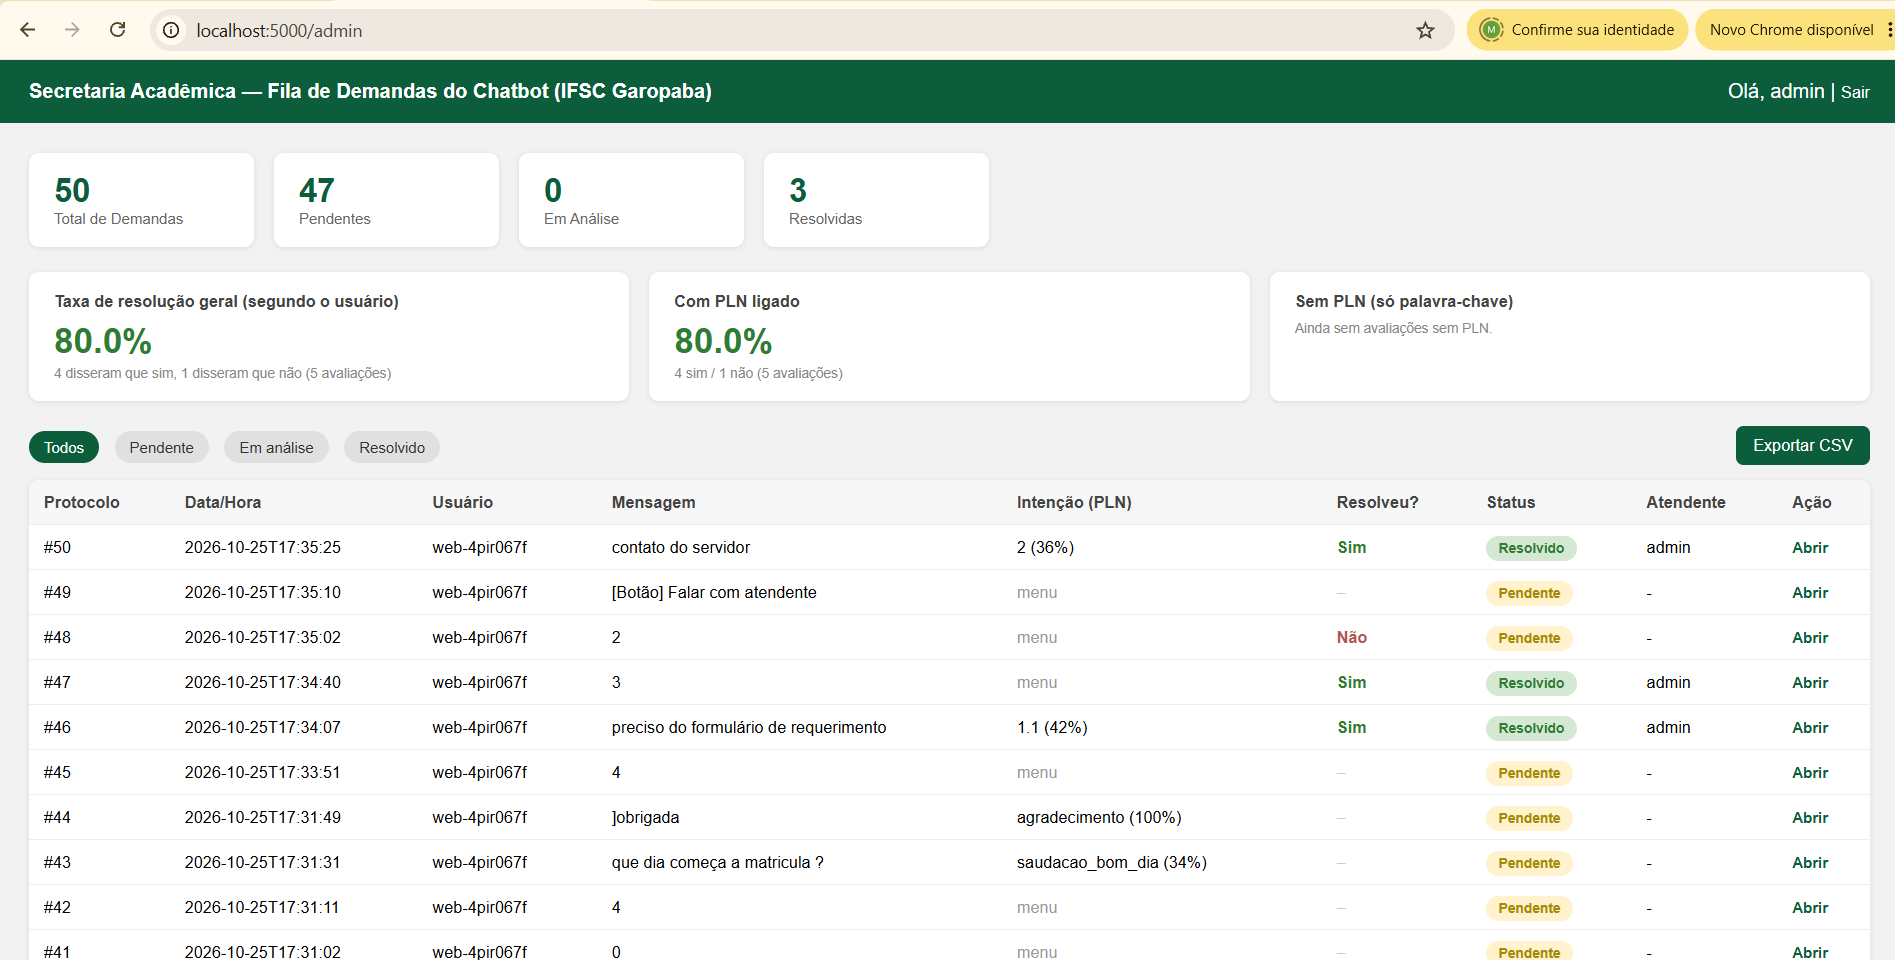
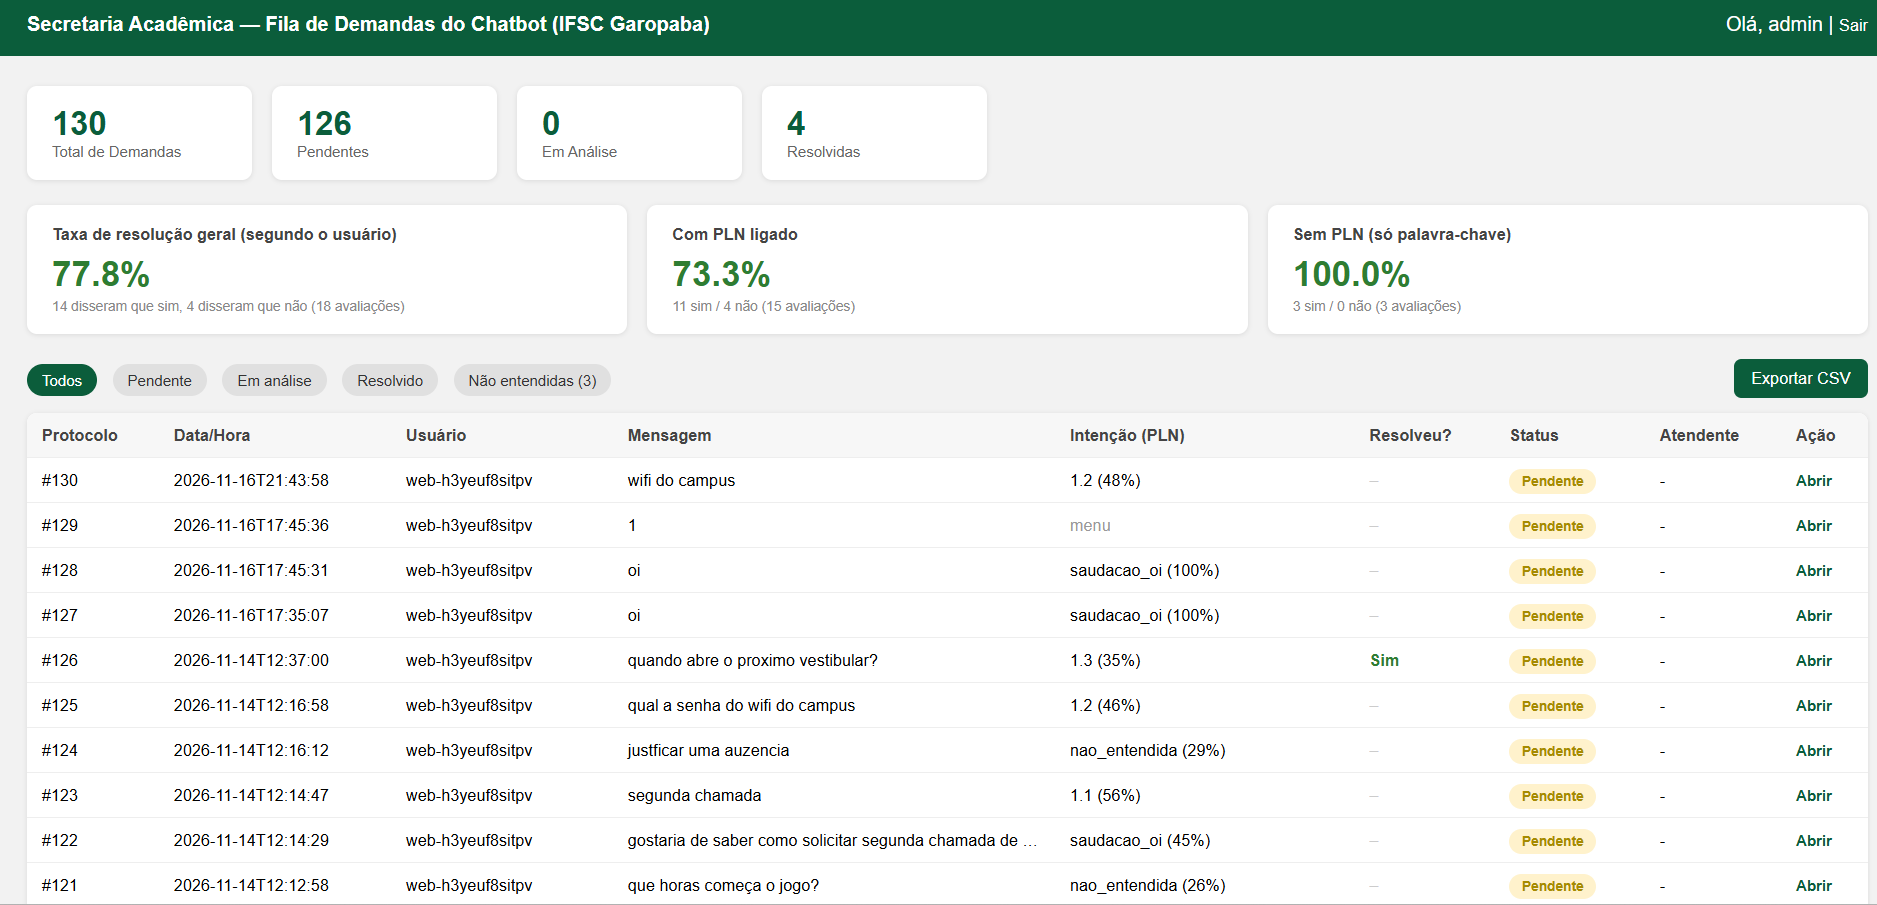
Updates Marilia, V3

diff --git a/artigo_final.tex b/artigo_final.tex
@@ -316,11 +316,33 @@ no sistema:
   para dúvidas individuais.
 \end{itemize}
 
-Com base nessas informações, o desenvolvimento de um chatbot para a
-Secretaria Acadêmica do IFSC Garopaba surge como uma alternativa para
-otimizar o atendimento, reduzir o tempo de resposta, facilitar o acesso
-às informações institucionais e, principalmente, produzir dados de
-acompanhamento que hoje não existem no canal de WhatsApp.
+Com base nessas demandas e nas necessidades de gestão identificadas pelo
+servidor, definiram-se os seguintes \textbf{Requisitos Funcionais (RF)} e
+\textbf{Requisitos Não Funcionais (RNF)} para o protótipo:
+
+\begin{itemize}
+  \item \textbf{RF1:} Conduzir o atendimento por meio de menus
+  hierárquicos numerados com opção universal de retorno ao início;
+  \item \textbf{RF2:} Interpretar perguntas digitadas em texto livre por
+  classificação de intenções, utilizando busca por palavras-chave como
+  contingência;
+  \item \textbf{RF3:} Encaminhar o usuário aos canais de atendimento
+  humano da Secretaria quando a dúvida fugir às respostas automatizadas;
+  \item \textbf{RF4:} Registrar cada interação no banco de dados com
+  protocolo, data e hora, mensagem, intenção reconhecida e avaliação de
+  satisfação;
+  \item \textbf{RF5:} Disponibilizar um painel administrativo autenticado
+  para consulta de métricas, triagem de status e exportação de dados;
+  \item \textbf{RNF1 (Privacidade):} Não exigir autenticação nem coletar
+  dados pessoais identificáveis (nome, CPF ou matrícula) dos usuários do
+  chat, exibindo aviso de registro na tela inicial;
+  \item \textbf{RNF2 (Desempenho e Leveza):} Executar a classificação
+  textual localmente em milissegundos, sem depender de GPUs ou APIs
+  externas pagas;
+  \item \textbf{RNF3 (Portabilidade):} Operar via navegador web de forma
+  responsiva, permitindo acesso tanto em computadores quanto em
+  dispositivos móveis.
+\end{itemize}
 
 \section{Metodologia}\label{sec:metodologia}
 
@@ -360,11 +382,10 @@ pesquisa aplicada, organizada em seis etapas sequenciais:
 
   \item \textbf{6. Validação exploratória e com o servidor:}
   disponibilização do protótipo hospedado online para testes piloto com
-  voluntários e apresentação funcional ao servidor da Secretaria
-  Acadêmica para coleta de parecer qualitativo e ajustes de
-  usabilidade (Seção~\ref{sec:resultados}).
-\end{itemize}
-
+  a autora e voluntários, seguida de apresentação funcional ao servidor
+  da Secretaria Acadêmica para coleta de parecer qualitativo e ajustes
+  de usabilidade (Seção~\ref{sec:resultados}).
+  
 Complementarmente à revisão bibliográfica, realizou-se uma observação
 exploratória informal de dois chatbots institucionais em operação -- o
 da Pontifícia Universidade Católica (PUC) e o da clínica Ortoimagem de
@@ -654,11 +675,18 @@ O acesso ao painel da Secretaria é restrito exclusivamente a servidores
 autenticados. As páginas administrativas são protegidas por verificação
 de sessão: quem tenta acessá-las sem estar autenticado é redirecionado à
 tela de login. As senhas não são armazenadas em texto puro, mas sob a
-forma de \textit{hash} gerado pela biblioteca Werkzeug, e a sessão do
-atendente é assinada com uma chave secreta do Flask e encerrada ao sair.
-Por se tratar de um protótipo, o usuário inicial criado automaticamente
-na primeira execução e a chave de sessão são valores padrão que devem ser
-obrigatoriamente substituídos antes de uma implantação em produção.
+forma de \textit{hash} gerado pela biblioteca Werkzeug. Para evitar
+credenciais fracas em produção, o sistema não cria mais usuários com
+senha padrão: o cadastro de administradores é realizado explicitamente
+pelo utilitário de linha de comando \texttt{criar\_admin.py}, que exige
+senhas com no mínimo 12 caracteres e bloqueia explicitamente senhas
+inseguras conhecidas (como \texttt{admin123}). Da mesma forma, a sessão
+do atendente é assinada com uma chave secreta carregada da variável de
+ambiente \texttt{SECRET\_KEY} ou gerada de forma aleatória na primeira
+execução (\texttt{.secret\_key}), sendo encerrada no \textit{logout}. Na
+instância hospedada no PythonAnywhere, o acesso administrativo foi
+configurado por meio do script \texttt{criar\_admin.py} e o modo de
+depuração (\texttt{FLASK\_DEBUG}) permanece desativado.
 
 Quanto à privacidade dos usuários, em alinhamento ao princípio da
 minimização da Lei Geral de Proteção de Dados Pessoais -- LGPD
@@ -944,7 +972,7 @@ Para orientar o aprimoramento do classificador, analisaram-se quatro falhas repr
 
   \item \textbf{Sensibilidade a erros ortográficos:} na entrada ``preciso justficar uma auzencia'' (esperado: \texttt{justificativa\_ausencia}), os erros de digitação geraram tokens ausentes no vocabulário indexado pelo TF-IDF, resultando em similaridade máxima de 0,2558 (abaixo de 0,30) e falha também na busca por palavras-chave. A inclusão de \textit{n}-gramas de caracteres (3 a 5 letras) no \texttt{classifier.py} permitiria capturar semelhanças parciais mesmo diante de trocas ou omissões de letras.
 
-  \item \textbf{Falso positivo fora de escopo por termo institucional compartilhado:} a pergunta ``qual a senha do wifi do câmpus?'' (esperado: fora de escopo) foi classificada como \texttt{1.2} (similaridade 0,4648), pois a palavra ``câmpus'' aparece com frequência nos exemplos de cursos ofertados. Definir uma lista de \textit{stopwords} institucionais (como ``câmpus'', ``ifsc'' e ``garopaba'') evitaria que termos genéricos acionem serviços específicos.
+  \item \textbf{Falso positivo fora de escopo por termo institucional compartilhado:} a pergunta ``qual a senha do wifi do campus?'' (esperado: fora de escopo) foi classificada como \texttt{1.2} (similaridade 0,4648), pois a palavra ``câmpus'' aparece com frequência nos exemplos de cursos ofertados. Definir uma lista de \textit{stopwords} institucionais (como ``câmpus'', ``ifsc'' e ``garopaba'') evitaria que termos genéricos acionem serviços específicos.
 \end{itemize}
 
 \subsection{Registro no Painel e Validação com o Servidor da Secretaria}
@@ -953,7 +981,18 @@ O painel de controle já é capaz de registrar cada atendimento realizado
 pelo chatbot, incluindo o protocolo, a mensagem recebida, a intenção reconhecida pelo módulo de PLN e se o usuário informou que a dúvida foi sanada ou não -- um retrato exatamente do tipo de dado que, segundo
 relatado na entrevista (Seção~\ref{sec:entrevista}), inexiste no atendimento atual via
 WhatsApp. % CONFERIR: numeros abaixo vieram do banco do prototipo hospedado; recontar no painel antes da entrega
-No protótipo hospedado, o banco de dados registrou 74 demandas, associadas a 5 identificadores distintos de navegador, das quais 70 permaneciam pendentes de triagem e 4 haviam sido marcadas como resolvidas pelo atendente. Nas respostas à pergunta de satisfação, o modo com PLN recebeu 6 respostas \textit{sim} e 1 \textit{não}, e o modo por palavras-chave, 3 respostas \textit{sim} e nenhuma \textit{não}. O volume é pequeno demais para comparar os modos, mas demonstra que o fluxo de registro, a classificação de status (pendente, em análise, resolvido) e a listagem das demandas funcionam de ponta a ponta.
+No protótipo hospedado, o banco de dados registrou 130 demandas
+(incluindo testes realizados pela autora e por voluntários durante a
+validação), das quais 126 permaneciam pendentes de triagem e 4 haviam sido marcadas
+como resolvidas pelo atendente. Nas respostas à pergunta de satisfação,
+o modo com PLN recebeu 11 respostas \textit{sim} e 4 \textit{não}
+(73,3\% de resolução nas 15 interações avaliadas), e o modo por
+palavras-chave recebeu 3 respostas \textit{sim} e nenhuma \textit{não}
+(100,0\% nas 3 avaliações), totalizando 77,8\% de resolução geral nas 18
+avaliações registradas. O volume de avaliações ainda é pequeno para
+comparar estatisticamente os dois modos em produção, mas comprova que o
+fluxo de registro, a classificação de status e a contabilização das
+avaliações funcionam de ponta a ponta.
 
 Em outubro de 2026, o protótipo foi apresentado ao servidor responsável
 pela Secretaria Acadêmica, futuro usuário da ferramenta, com o objetivo
@@ -1074,6 +1113,12 @@ BALDERAS, Antonio; GARCÍA-MENA, Roberto Fermín; HUERTA, Milagros; MORA,
 Néstor; DODERO, Juan Manuel. Chatbot for communicating with university
 students in emergency situation. \textbf{Heliyon}, v. 9, n. 9, e19517,
 2023. DOI: 10.1016/j.heliyon.2023.e19517.
+
+BRASIL. \textbf{Lei n\textsuperscript{o} 13.709, de 14 de agosto de
+2018}. Lei Geral de Proteção de Dados Pessoais (LGPD). Brasília, DF:
+Presidência da República, 2018. Disponível em:
+\url{https://planalto.gov.br}.
+Acesso em: 16 nov. 2026.
 
 FILATRO, Andrea Cristina. \textbf{Ciência de dados na educação}. São
 Paulo: Saraiva Uni, 2020.
